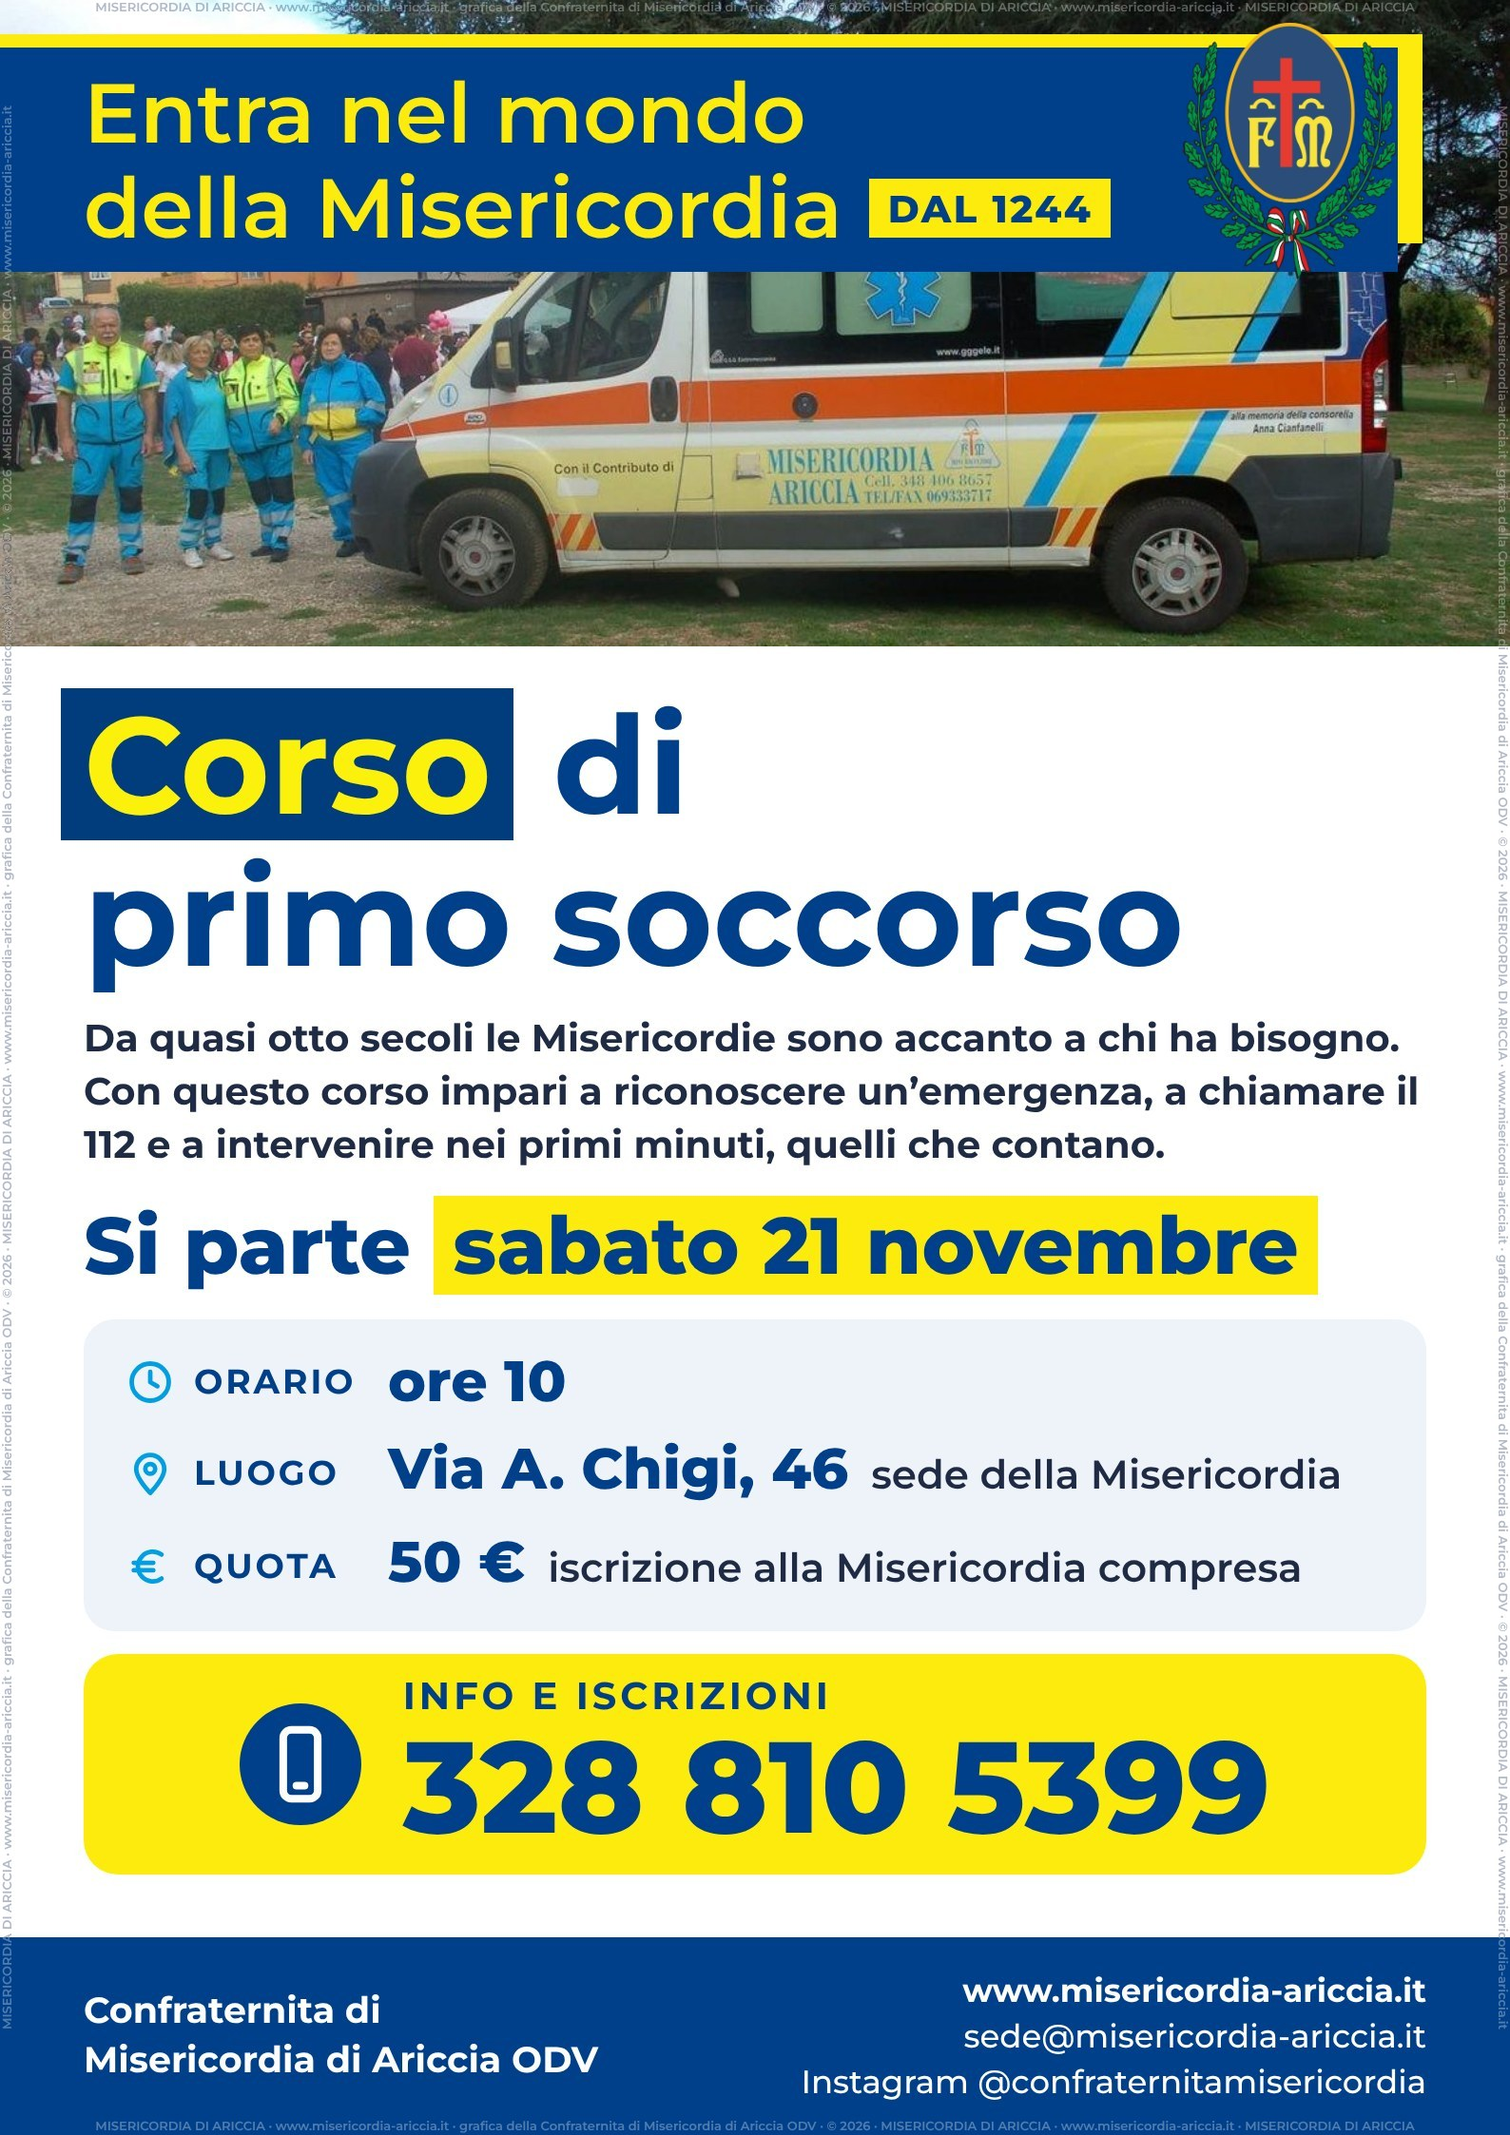
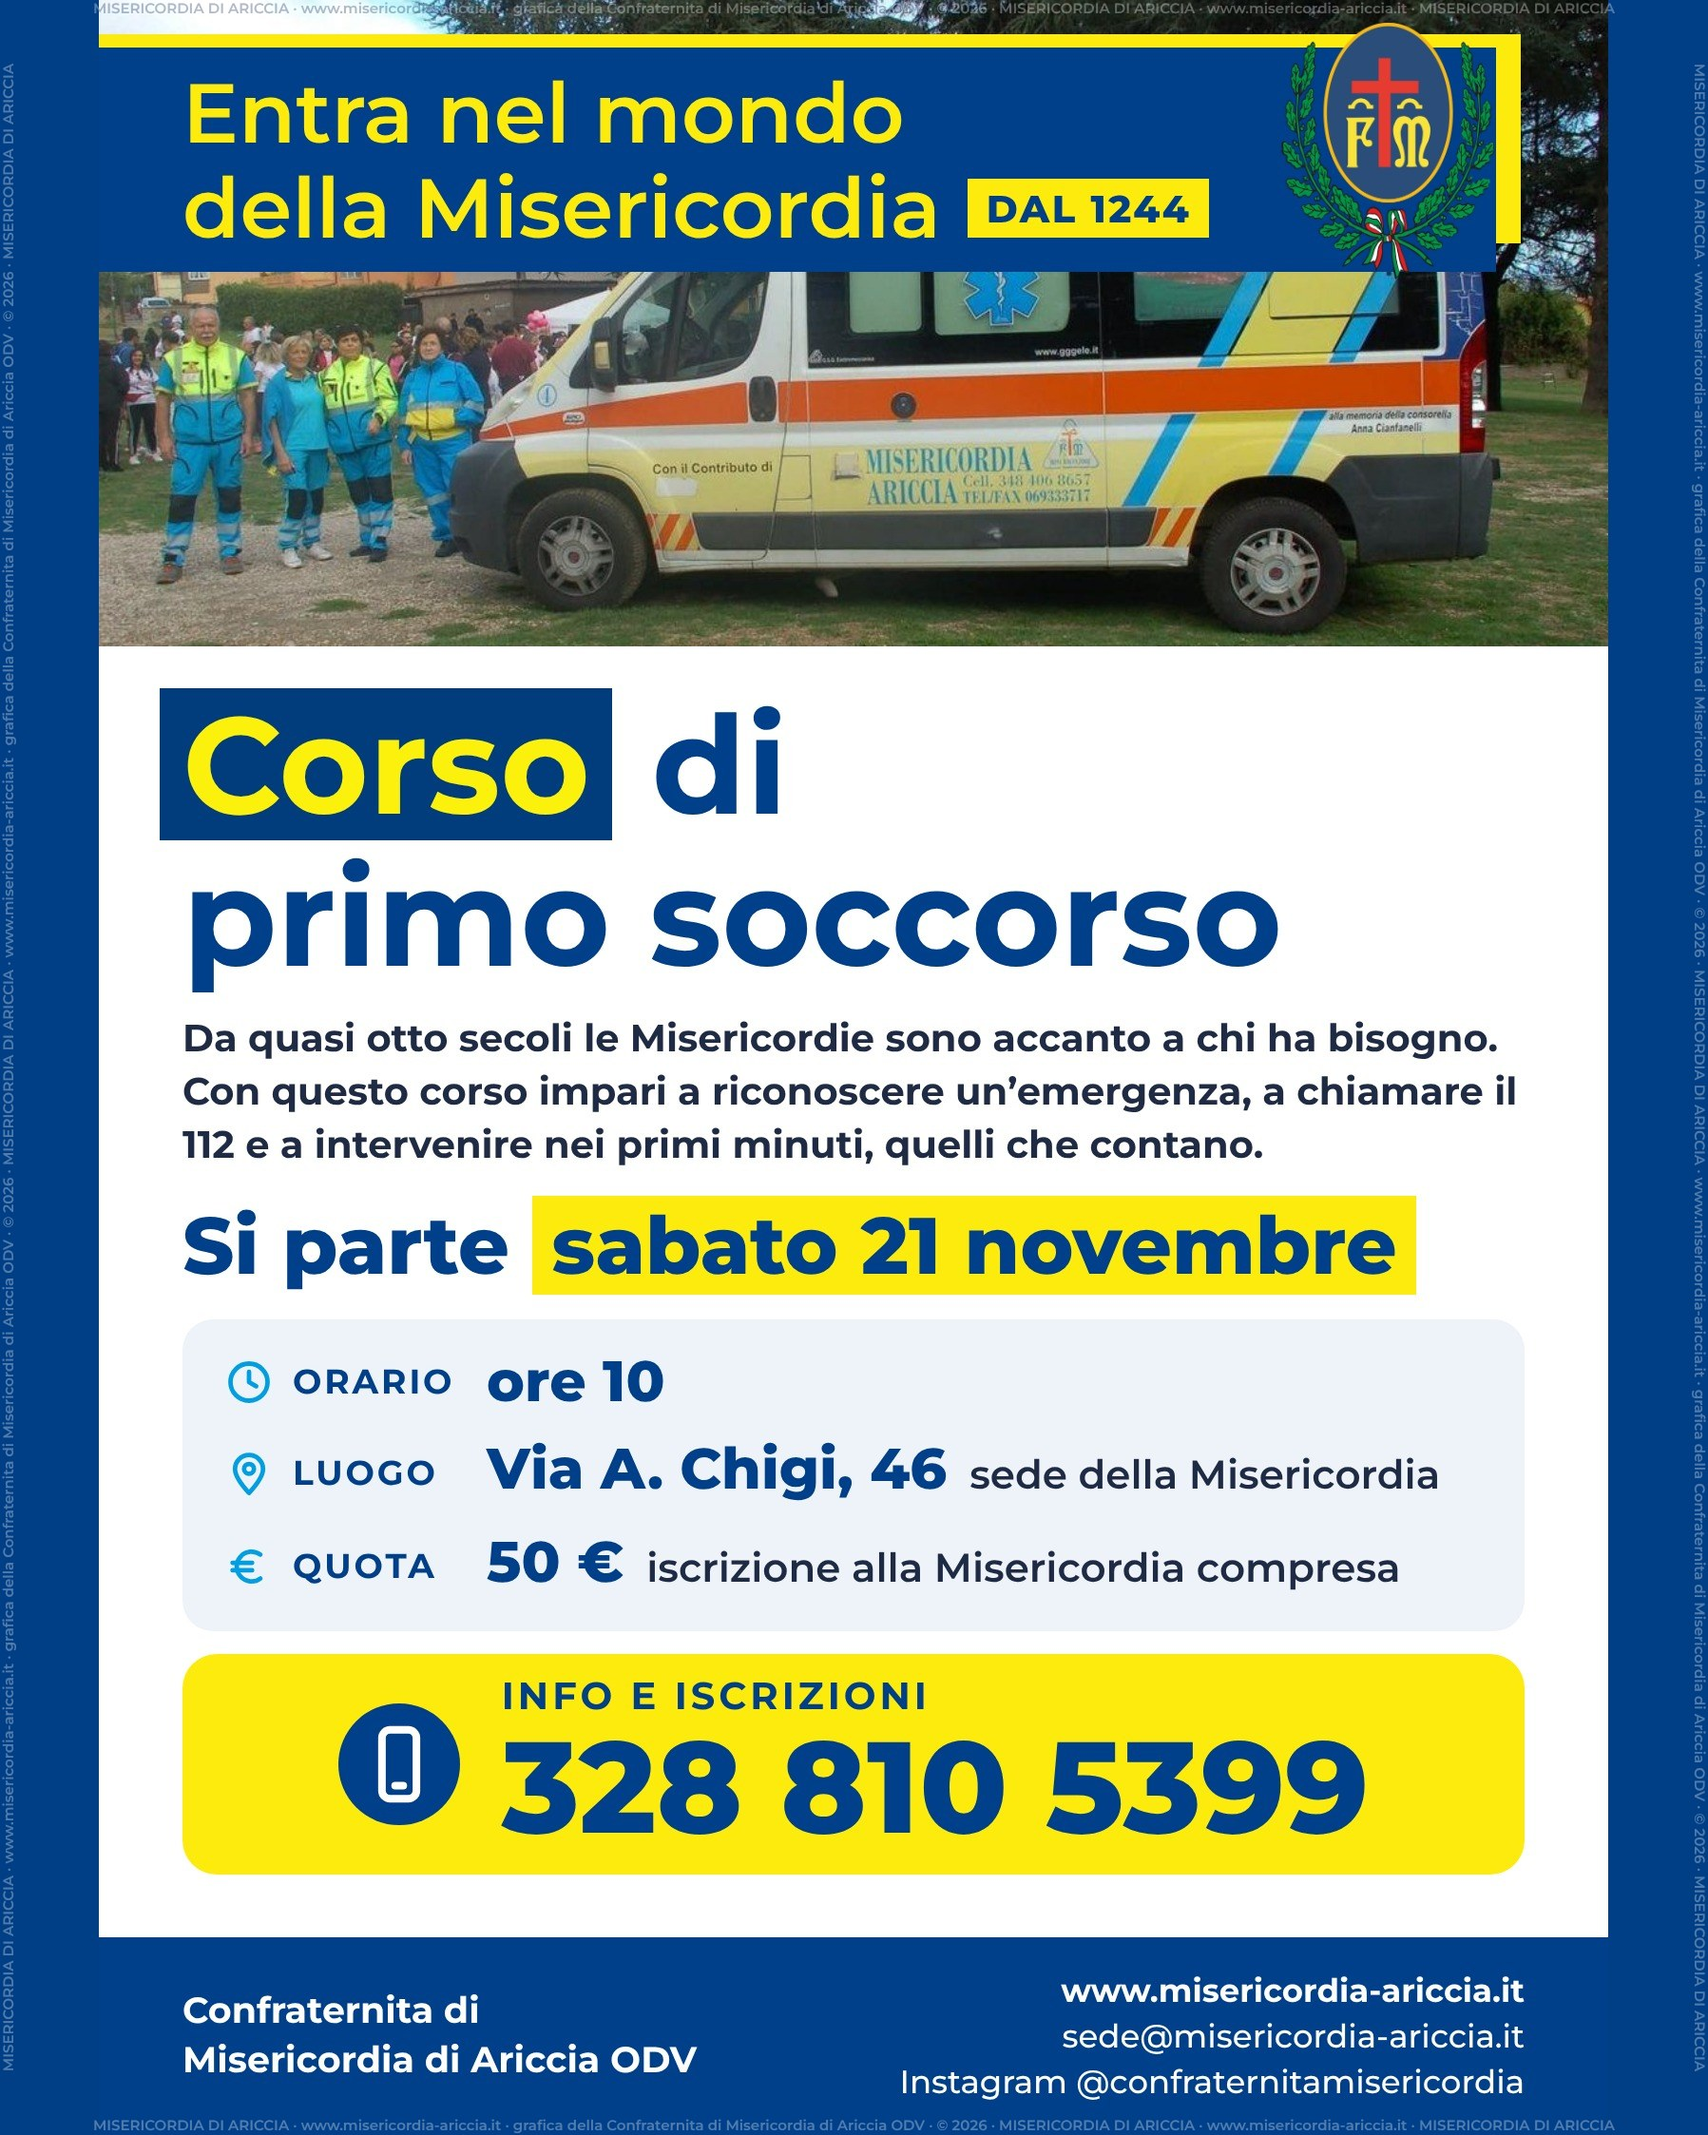
Corso di primo soccorso: la locandina è l'unica immagine (#258)
Tolta la grafica; la locandina intera, in 4:5 per Instagram, è l'immagine dell'articolo e dei social.

diff --git a/content/news/2026-11-06-corso-primo-soccorso-21-novembre.md b/content/news/2026-11-06-corso-primo-soccorso-21-novembre.md
@@ -4,11 +4,11 @@ titoloSeo: "Corso di primo soccorso ad Ariccia dal 21 novembre 2026 — Miserico
 date: 2026-11-06T03:30:00+01:00
 slug: "corso-primo-soccorso-21-novembre"
 description: "Nuovo corso di primo soccorso alla Misericordia di Ariccia: si parte sabato 21 novembre 2026 alle 10, in sede in Viale Antonietta Chigi 46. Quota 50 €, iscrizione compresa. Info 328 8105399."
-immagine: "/img/news/2026-11-06-corso-primo-soccorso-21-novembre-grafica.jpg"
+immagine: "/img/news/2026-11-06-corso-primo-soccorso-21-novembre-locandina.jpg"
 data_evento: "2026-11-21"
 controllo_editoriale: "2026-11-06"
 social: true
-social_alt: "Volontari della Misericordia di Ariccia accanto all'ambulanza. Grafica nazionale blu e gialla: Formazione; Corso di primo soccorso: si parte sabato 21 novembre. Ore 10, in sede in Viale Antonietta Chigi 46. Quota 50 euro, iscrizione compresa. Info e iscrizioni 328 8105399."
+social_alt: "Locandina della Misericordia di Ariccia con i volontari accanto all'ambulanza: Entra nel mondo della Misericordia, dal 1244. Corso di primo soccorso. Si parte sabato 21 novembre, ore 10, in Via A. Chigi 46, sede della Misericordia. Quota 50 euro, iscrizione alla Misericordia compresa. Info e iscrizioni 328 810 5399."
 social_testo: |
   🩹 Corso di primo soccorso: si parte sabato 21 novembre!
 
@@ -37,7 +37,7 @@ italianoSemplice: |
   Per informazioni e per iscriverti chiama il **328 8105399**.
 ---
 
-![Grafica della Misericordia di Ariccia con i volontari accanto all'ambulanza e la scritta «Formazione. Corso di primo soccorso: si parte sabato 21 novembre. Ore 10, in sede: Viale Antonietta Chigi 46. Quota 50 €, iscrizione compresa. Info e iscrizioni: 328 8105399».](/img/news/2026-11-06-corso-primo-soccorso-21-novembre-grafica.jpg)
+![Locandina del corso di primo soccorso della Misericordia di Ariccia: «Entra nel mondo della Misericordia, dal 1244. Corso di primo soccorso. Si parte sabato 21 novembre, ore 10, in Via A. Chigi 46, sede della Misericordia. Quota 50 €, iscrizione alla Misericordia compresa. Info e iscrizioni 328 810 5399».](/img/news/2026-11-06-corso-primo-soccorso-21-novembre-locandina.jpg)
 
 **Entra nel mondo della Misericordia.** Sabato **21 novembre 2026** parte il nuovo **corso di primo soccorso** della Misericordia di Ariccia.
 
@@ -52,8 +52,6 @@ Con questo corso impari a **riconoscere un'emergenza**, a **chiamare il 112** e 
 ## Info e iscrizioni
 
 Per informazioni e per iscriverti chiama il **[328 8105399](tel:+393288105399)**, oppure scrivi a [sede@misericordia-ariccia.it](mailto:sede@misericordia-ariccia.it).
-
-![Locandina del corso di primo soccorso della Misericordia di Ariccia: «Entra nel mondo della Misericordia, dal 1244. Corso di primo soccorso. Si parte sabato 21 novembre, ore 10, in Via A. Chigi 46, sede della Misericordia. Quota 50 €, iscrizione alla Misericordia compresa. Info e iscrizioni 328 810 5399».](/img/news/2026-11-06-corso-primo-soccorso-21-novembre-locandina.jpg)
 
 ## E dopo il corso?
 
